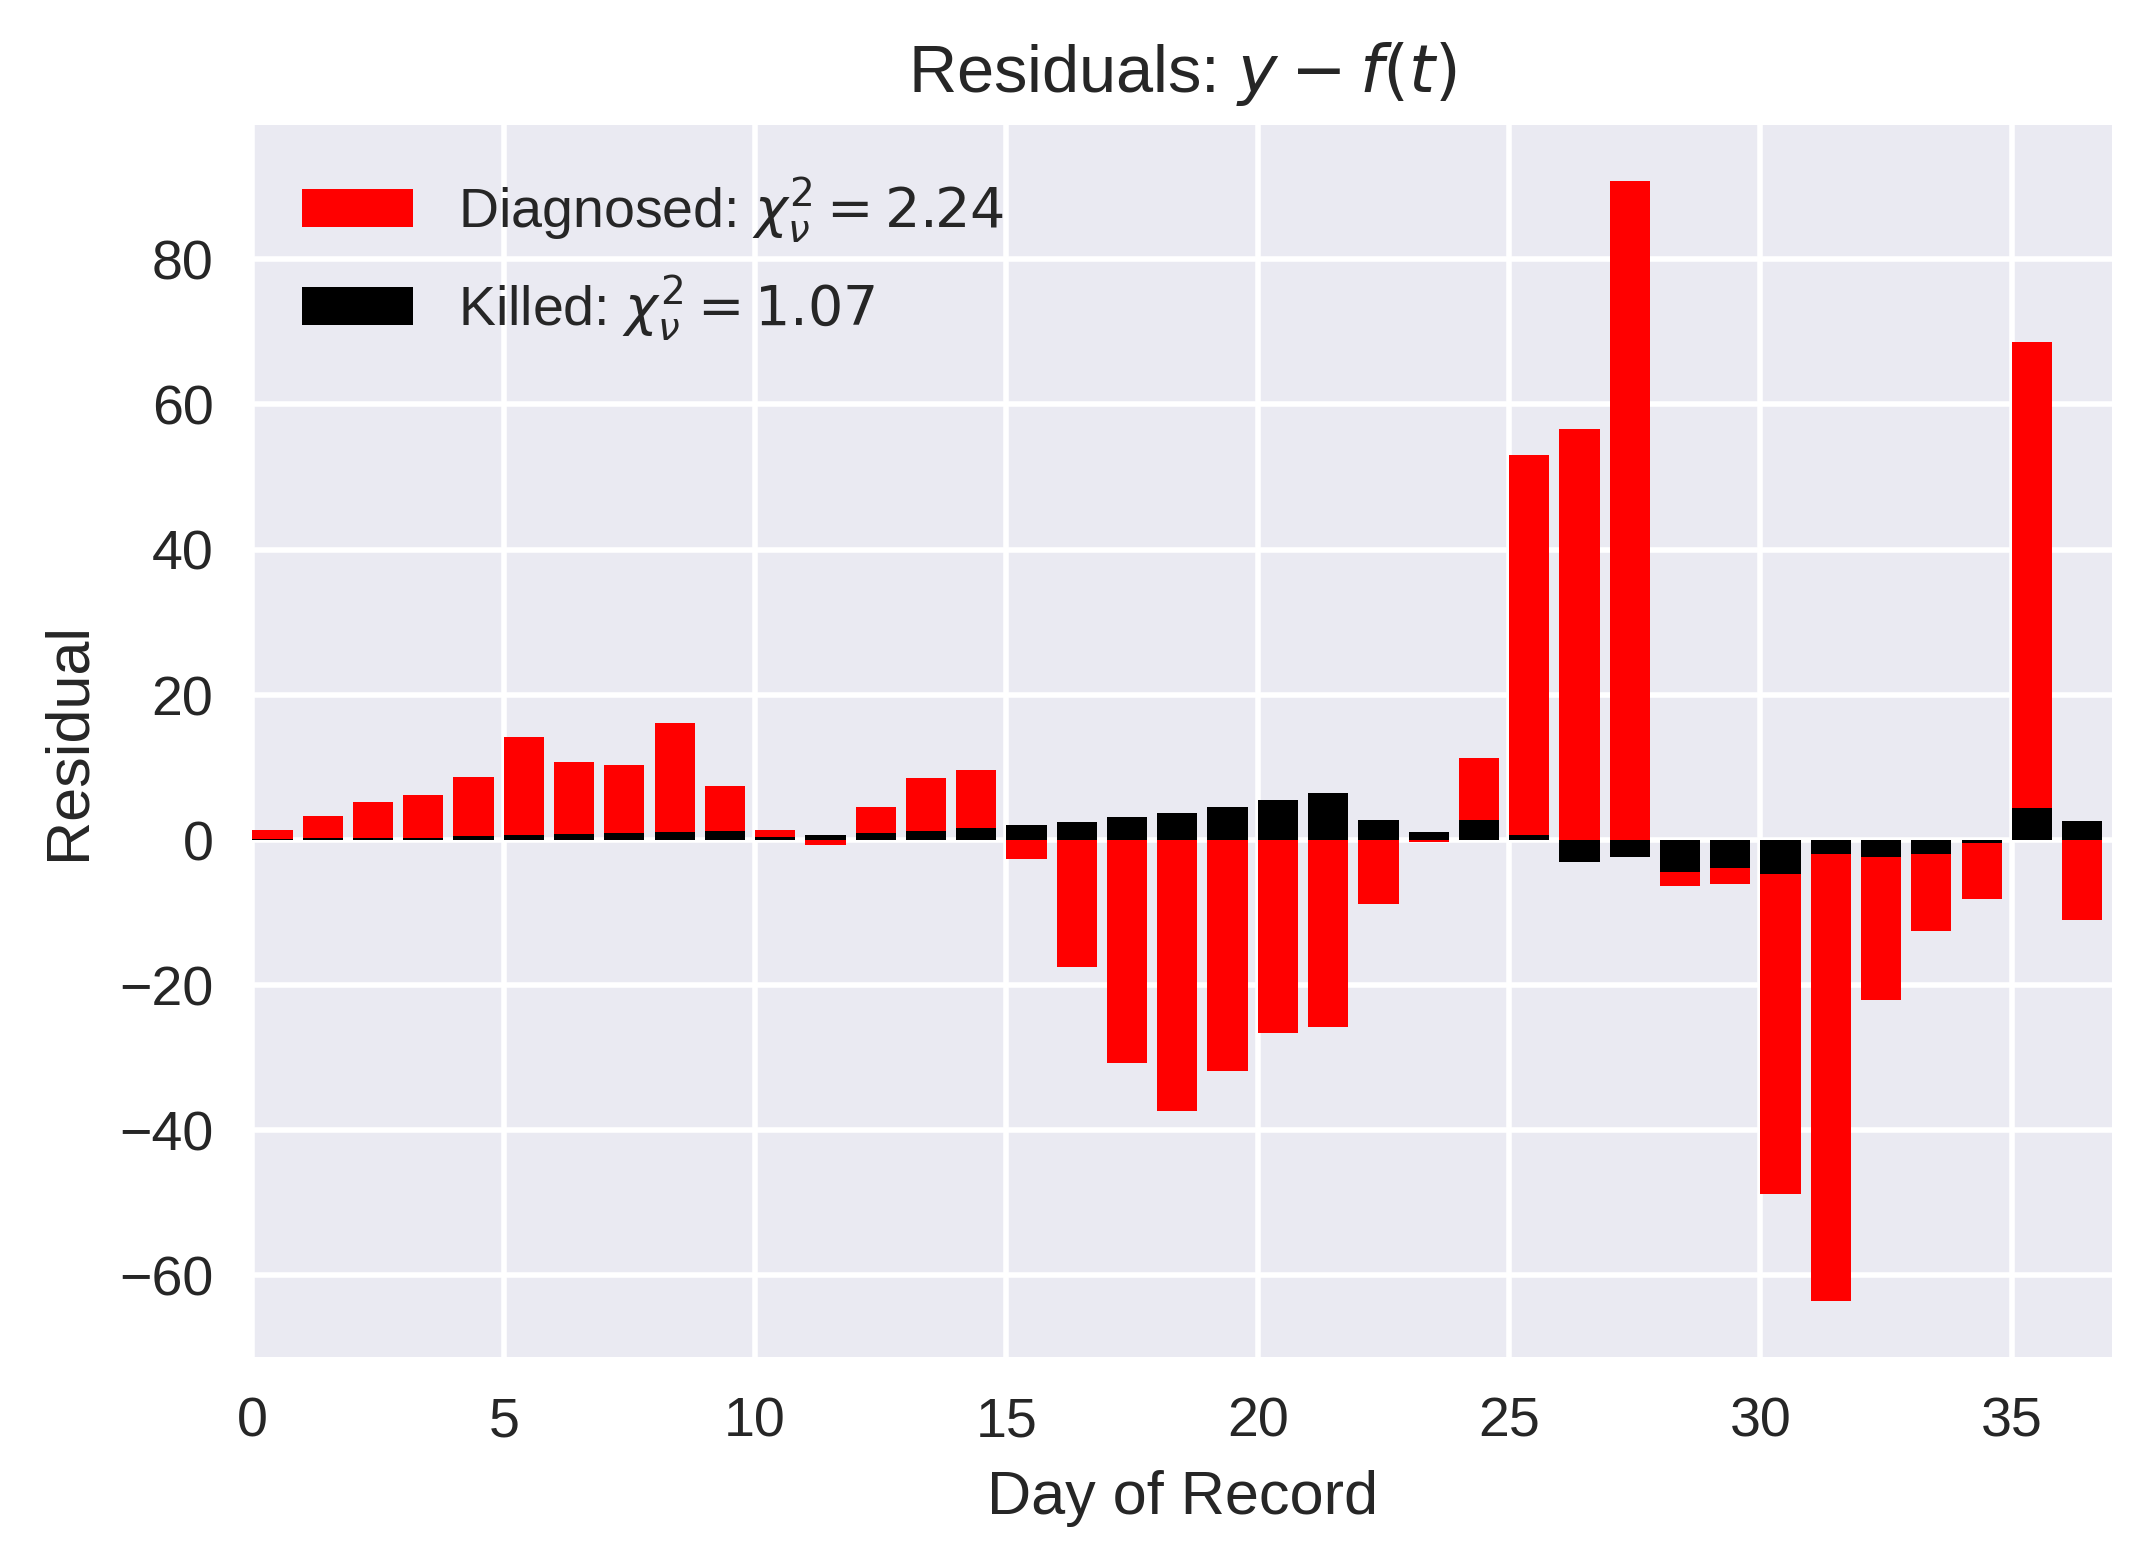
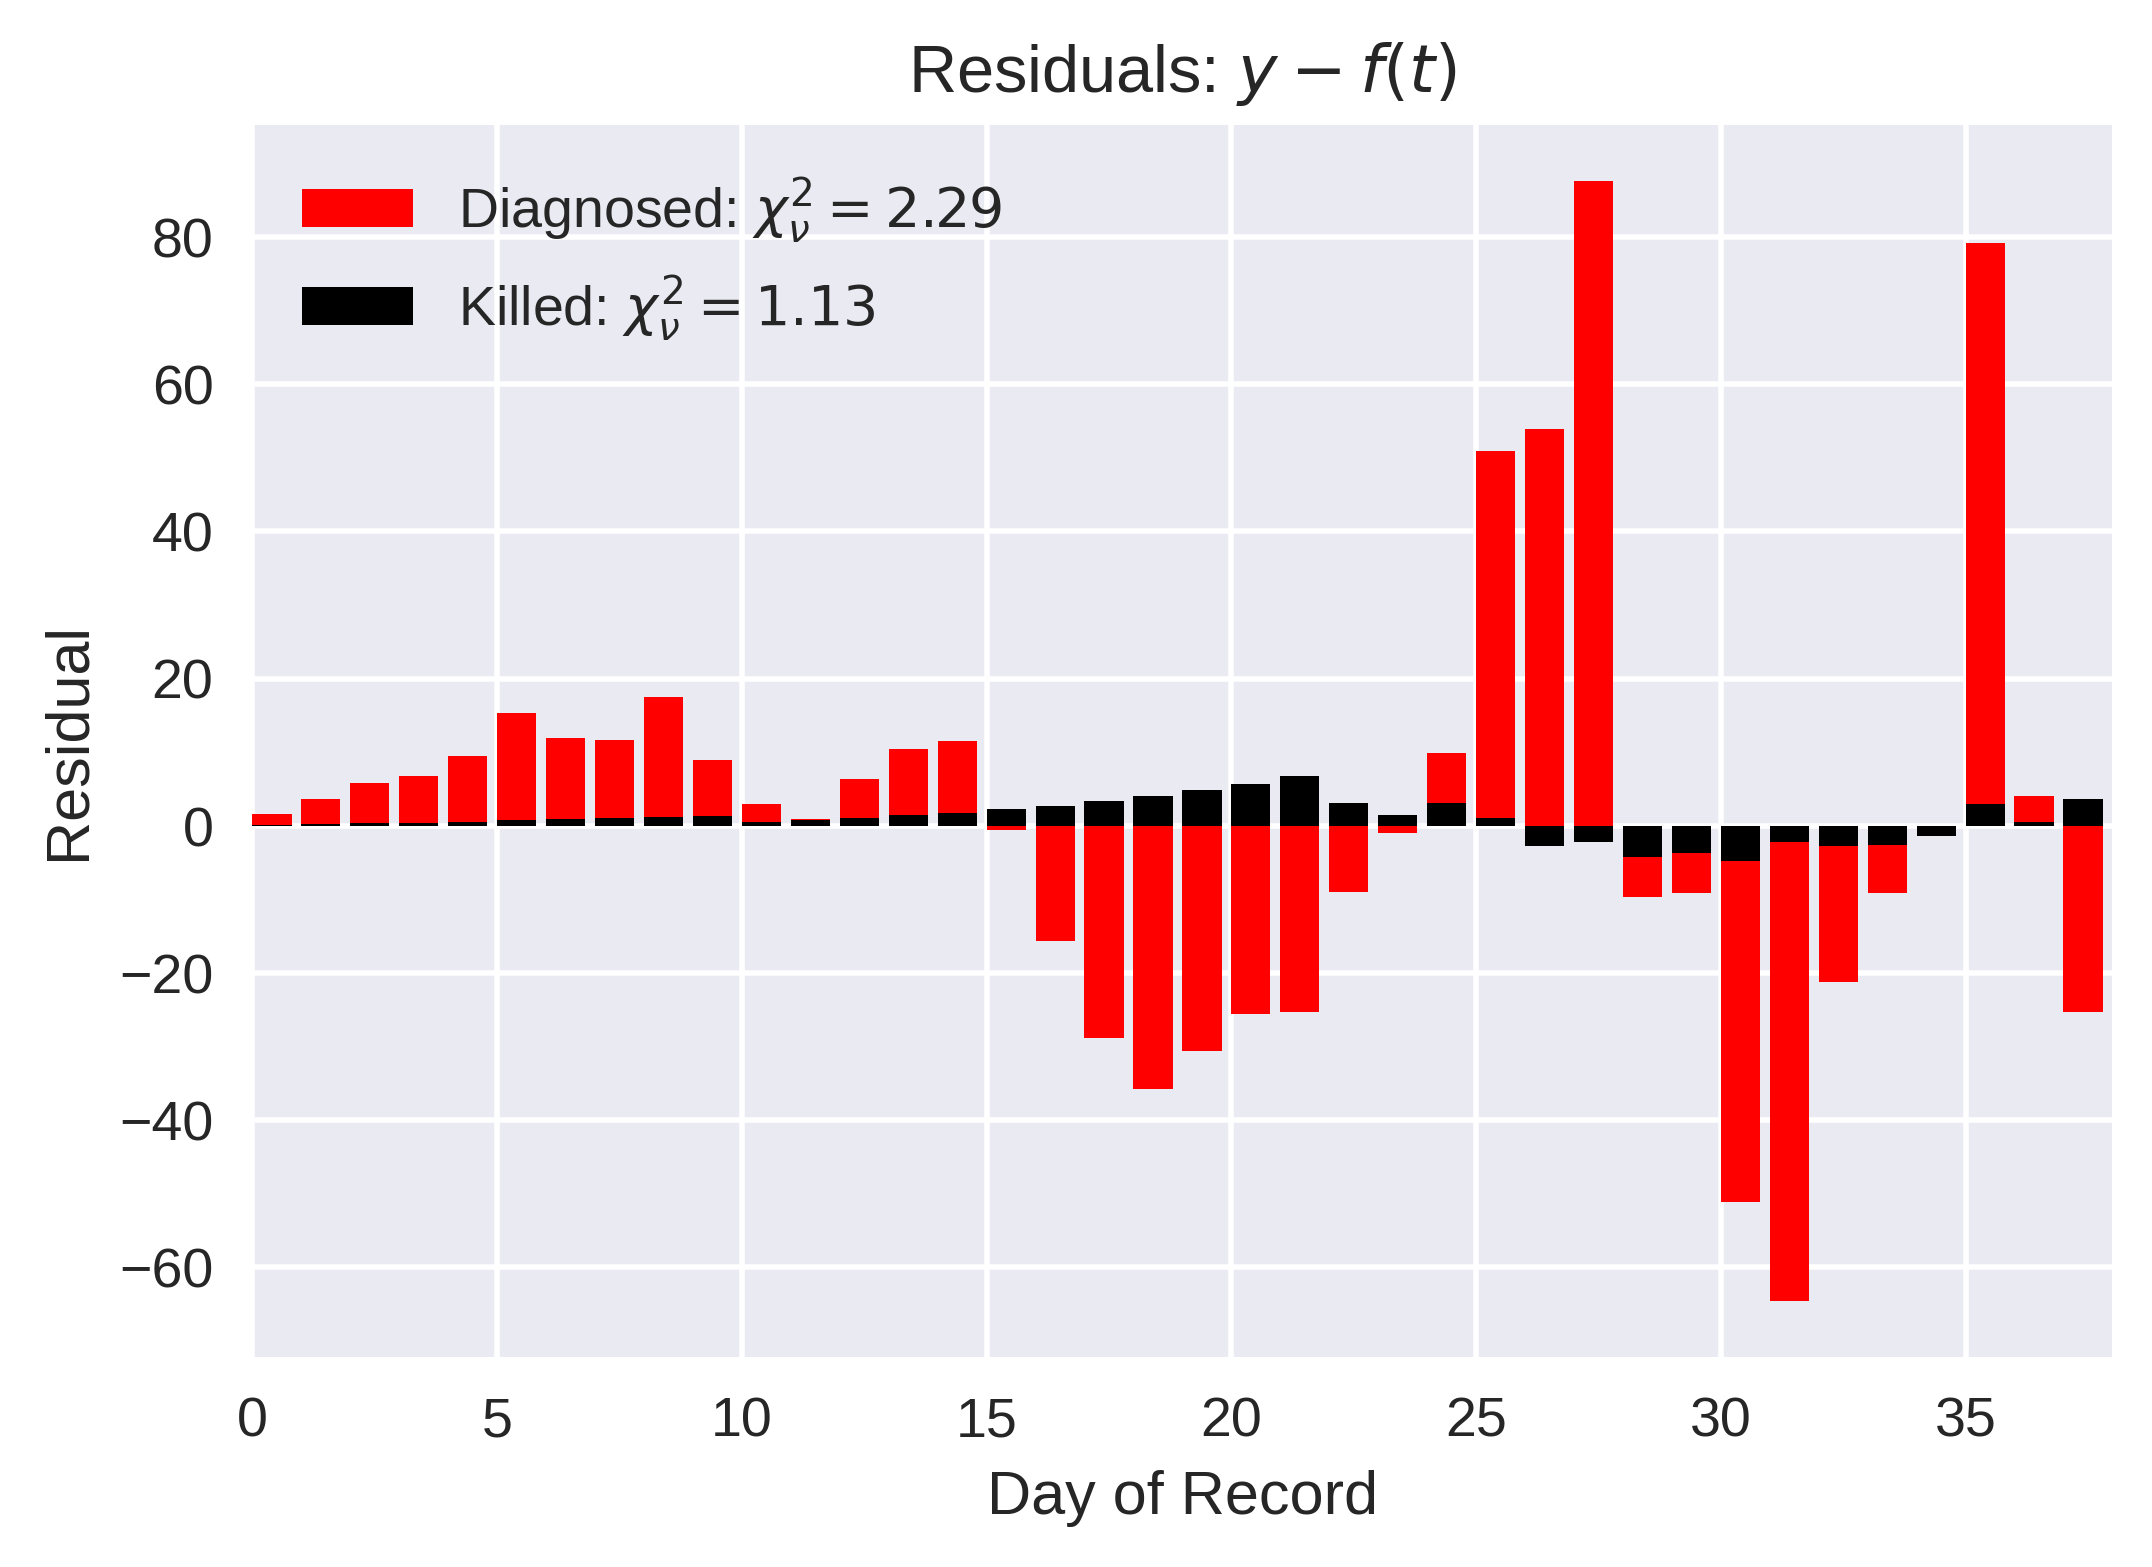
2020-04-17 update

diff --git a/exponential.py b/exponential.py
@@ -150,7 +150,7 @@ for key in columns:
     # Predictions
 
     dx = 0.25
-    dt = 10
+    dt = 12
 
     tomorrow = date.fromordinal(today + 1)
     nextWeek = date.fromordinal(today + 7)
